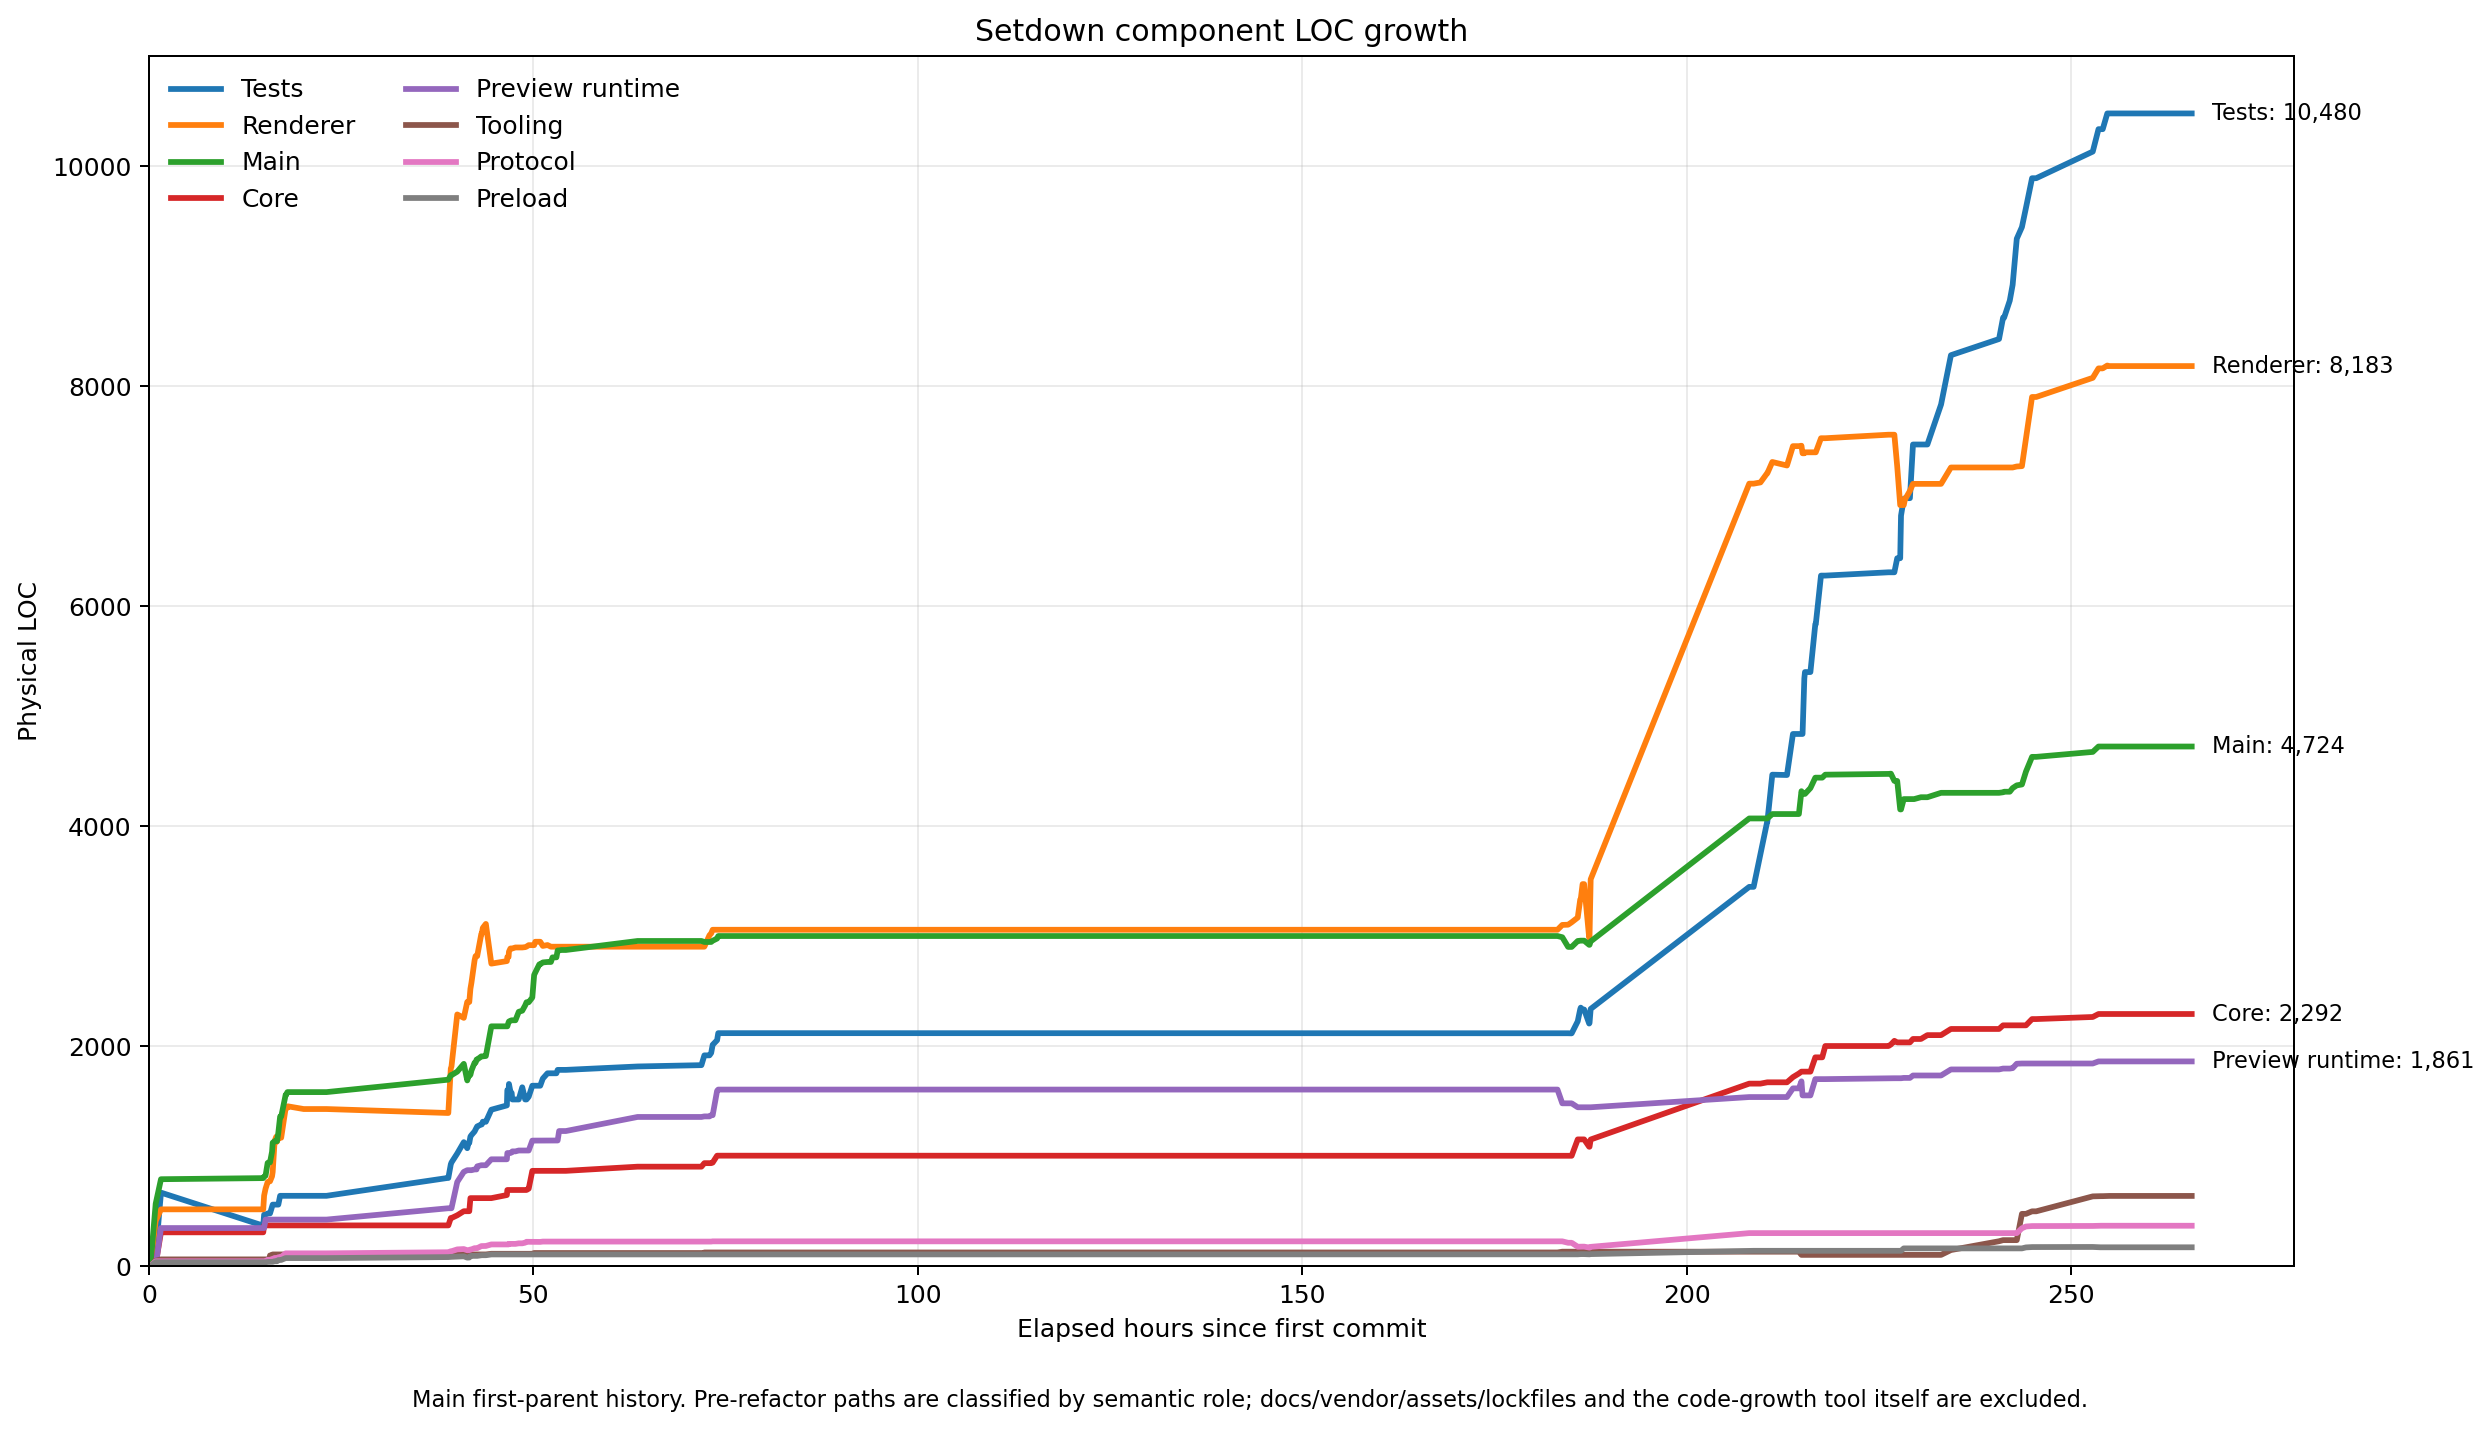
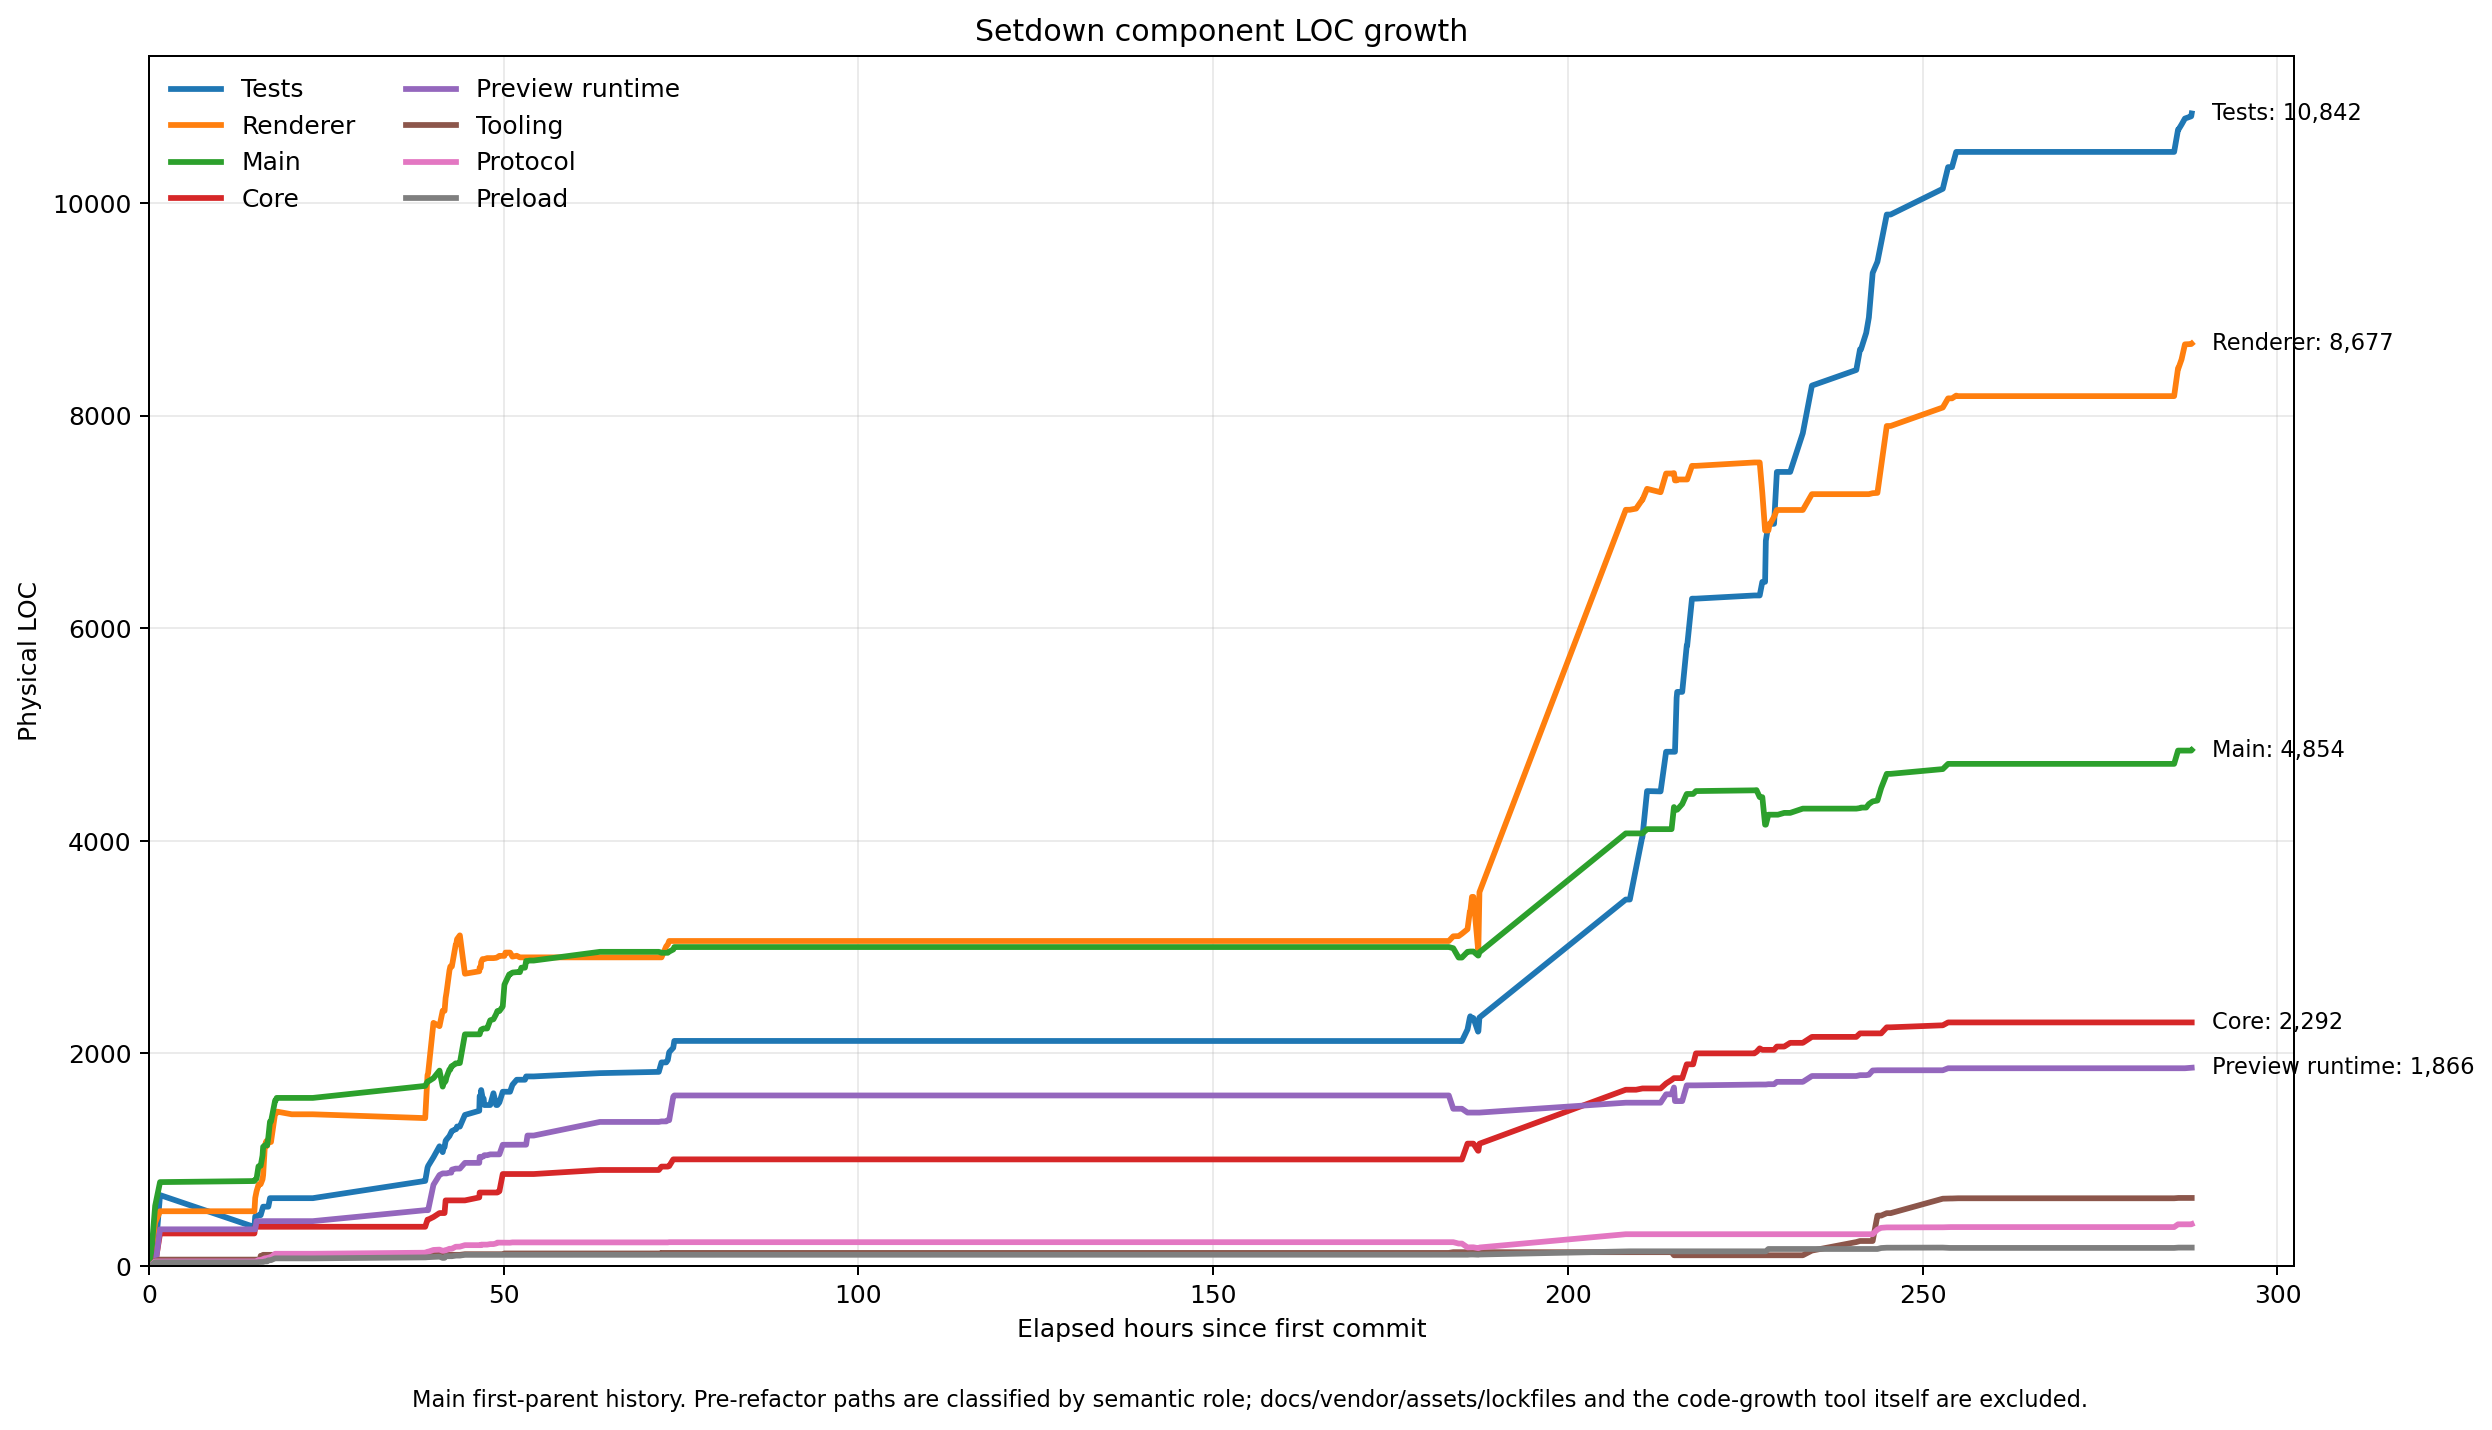
fix: 이미지 + 터미널 에러 해결

diff --git a/apps/desktop/test/e2e/image-terminal-layout.spec.ts b/apps/desktop/test/e2e/image-terminal-layout.spec.ts
@@ -1,0 +1,37 @@
+import { _electron as electron, expect, test } from '@playwright/test';
+import { mkdtemp, rm } from 'node:fs/promises';
+import os from 'node:os';
+import path from 'node:path';
+import { fileURLToPath } from 'node:url';
+import { disposeApplication, focusApplication } from './electron-app';
+
+test('fit image stays still beside the explorer and terminal', async () => {
+  const config = await mkdtemp(path.join(os.tmpdir(), 'setdown-image-terminal-'));
+  const file = fileURLToPath(new URL('../../../../docs/assets/image1.png', import.meta.url));
+  const { ELECTRON_RUN_AS_NODE: _, ...env } = process.env;
+  const app = await electron.launch({ args: ['.', file], env: { ...env, XDG_CONFIG_HOME: config } });
+  try {
+    await focusApplication(app);
+    const page = await app.firstWindow();
+    await expect(page.getByRole('region', { name: 'Image reader' })).toHaveAttribute('data-image-ready', 'true');
+    await page.getByRole('button', { name: 'Toggle Folder Tools' }).click();
+    const explorer = page.getByRole('button', { name: 'Explorer', exact: true });
+    if (await explorer.getAttribute('aria-expanded') !== 'true') await explorer.click();
+    await page.getByRole('button', { name: 'Terminal', exact: true }).click();
+    await expect(page.getByRole('region', { name: 'Integrated terminal' })).toBeVisible();
+    // Previously both scrollbars appeared and disappeared, alternating fit size
+    // every few frames after the terminal opened.
+    const sizes = await page.evaluate(() => new Promise<number[]>((resolve) => {
+      const image = document.querySelector('.image-surface img')!;
+      const widths: number[] = [];
+      const sample = () => {
+        widths.push(image.getBoundingClientRect().width);
+        if (widths.length < 60) requestAnimationFrame(sample);
+        else resolve(widths);
+      };
+      requestAnimationFrame(sample);
+    }));
+    const steady = sizes.slice(15);
+    expect(Math.max(...steady) - Math.min(...steady)).toBeLessThan(1);
+  } finally { await disposeApplication(app); await rm(config, { recursive: true, force: true }); }
+});

diff --git a/apps/desktop/src/renderer/image/ImageSurface.svelte b/apps/desktop/src/renderer/image/ImageSurface.svelte
@@ -24,6 +24,7 @@
   let host: HTMLDivElement;
   let dead = false;
   let adjusting = false;
+  let restoring = true;
   let layoutRequest = 0;
   let needsResize = false;
   let drag: { x: number; y: number; left: number; top: number } | undefined;
@@ -35,7 +36,7 @@
   const stageHeight = $derived(Math.max(viewportHeight, rotatedHeight * scale + 32));
 
   function remember() {
-    if (!active || !src || adjusting || dead) return;
+    if (!active || !src || adjusting || restoring || dead) return;
     centerX = (host.scrollLeft + host.clientWidth / 2) / stageWidth;
     centerY = (host.scrollTop + host.clientHeight / 2) / stageHeight;
     onposition({ kind: 'image', zoom, rotation, centerX, centerY });
@@ -44,12 +45,17 @@
     if (!host || dead) return;
     const request = ++layoutRequest;
     adjusting = true;
-    viewportWidth = host.clientWidth; viewportHeight = host.clientHeight;
+    // A shrinking pane can briefly show scrollbars for the old image size.
+    // Measure the stable outer viewport, not the scrollbar-reduced client box,
+    // or fit zoom undershoots and then grows again on the next resize callback.
+    const bounds = host.getBoundingClientRect();
+    viewportWidth = bounds.width; viewportHeight = bounds.height;
     await tick();
     if (dead || request !== layoutRequest) return;
     host.scrollLeft = centerX * stageWidth - host.clientWidth / 2;
     host.scrollTop = centerY * stageHeight - host.clientHeight / 2;
     adjusting = false;
+    if (src) restoring = false;
     remember();
   }
   function changeZoom(value: string) {

diff --git a/apps/desktop/test/e2e/git-history.spec.ts b/apps/desktop/test/e2e/git-history.spec.ts
@@ -38,6 +38,7 @@ test('Graph resizes, refreshes and opens immutable Markdown revisions in existin
     window.on('pageerror', (error) => errors.push(error.message));
     await window.evaluate(async (folder) => {
       await (window as unknown as { marktex: { restoreProjectFolder(root: string): Promise<unknown> } }).marktex.restoreProjectFolder(folder);
+      sessionStorage.setItem('setdown:git-graph-panel', JSON.stringify({ expanded: true, ratio: .55 }));
     }, root);
     await Promise.all([window.waitForEvent('load'), window.reload()]);
     await focusApplication(app);

diff --git a/apps/desktop/playwright.preview-contract.config.ts b/apps/desktop/playwright.preview-contract.config.ts
@@ -9,6 +9,7 @@ export default defineConfig(base, {
     'git-history.spec.ts',
     'reading-positions.spec.ts',
     'image-reader.spec.ts',
+    'image-terminal-layout.spec.ts',
     'media-tabs.spec.ts',
     'workspace-zoom.spec.ts',
     'review-document-styles.spec.ts',
